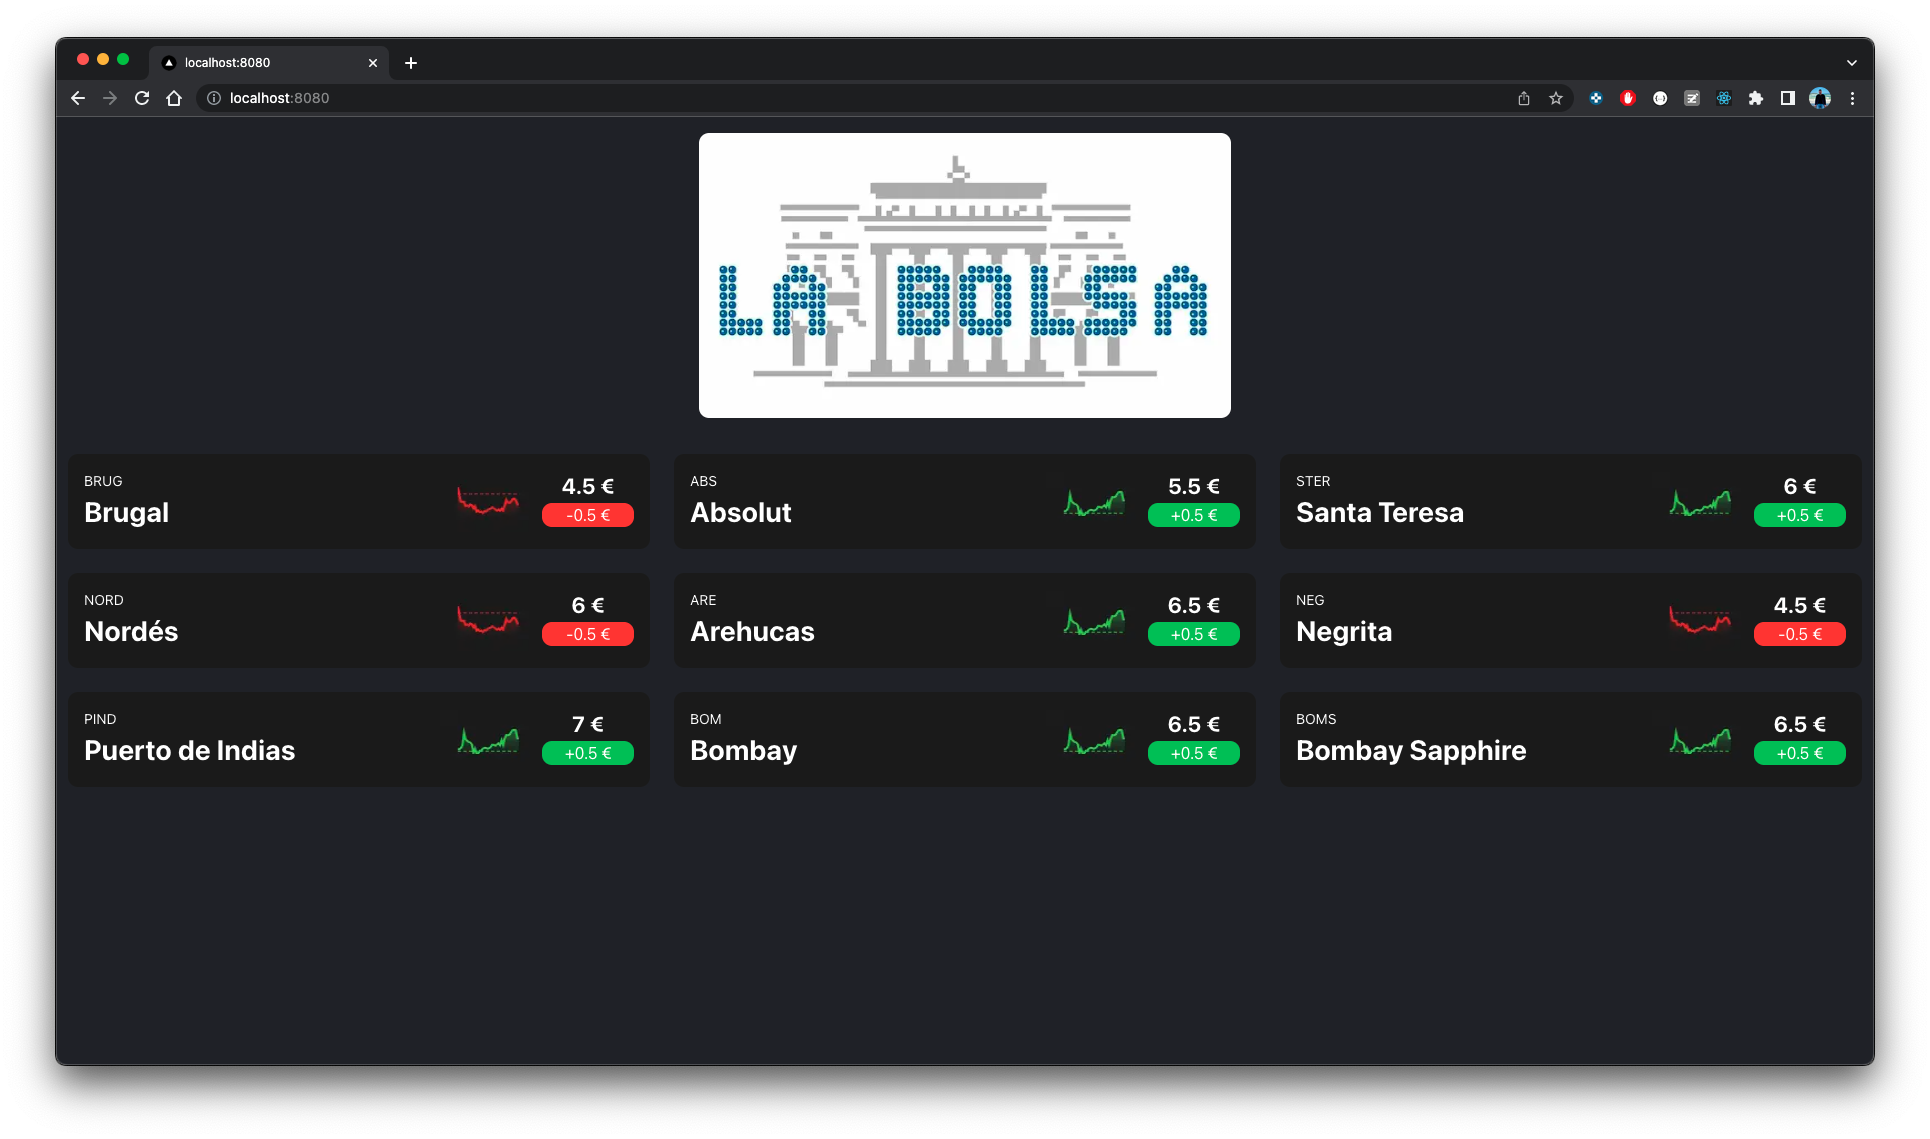
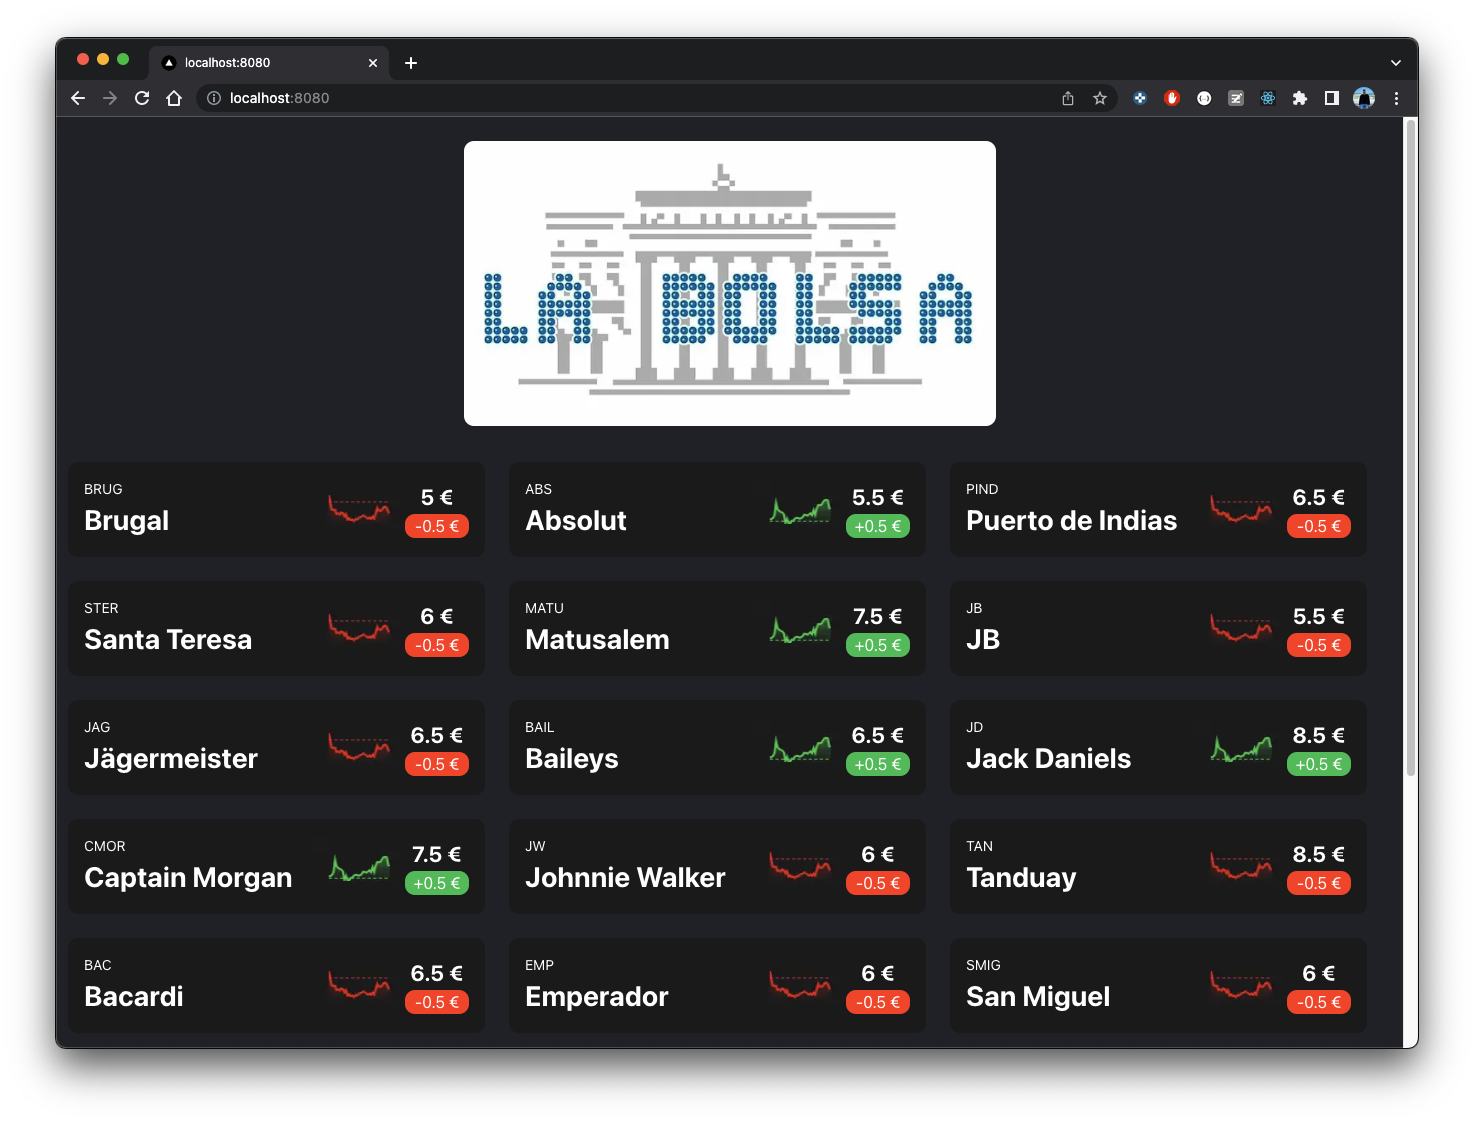
Update readme and documentation

diff --git a/README.md b/README.md
@@ -17,12 +17,12 @@ The App uses SQLite3 to store and fetch the drink prices from a database. The up
 
 La Bolsa App is built with a responsive layout using bootstrap.
 
-![XXL desktop layout](doc/3-columns.png)
+![XXL desktop layout](doc/4-columns.png)
 <p align = "center">
 XXL desktop layout
 </p>
 
-![MD desktop layout](doc/2-columns.png)
+![MD desktop layout](doc/3-columns.png)
 <p align = "center">
 MD desktop layout
 </p>
@@ -39,35 +39,52 @@ Mobile layout
 
 ## Admin App Design
 
-![XXL desktop layout](doc/admin-page.png)
+![Admin Page](doc/admin-page.png)
 <p align = "center">
 Admin Page
 </p>
 
-![XXL desktop layout](doc/add-drink.png)
+![Drink list](doc/drink-list.png)
+<p align = "center">
+Drink list
+</p>
+
+![Add drink modal](doc/add-drink.png)
 <p align = "center">
 Add drink modal
 </p>
 
-![XXL desktop layout](doc/edit-drink.png)
+![Edit drink modal](doc/edit-drink.png)
 <p align = "center">
 Edit drink modal
 </p>
 
-![XXL desktop layout](doc/delete-drink.png)
+![Delete drink modal](doc/delete-drink.png)
 <p align = "center">
 Delete drink modal
 </p>
 
-## Download the dependencies and run the development server
+![Admin config](doc/admin-config.png)
+<p align = "center">
+Admin config page
+</p>
+
+![Update admin password](doc/admin-user.png)
+<p align = "center">
+Update admin password
+</p>
+
+
+## Download the dependencies, create the database and run the development server
 ```bash
 npm install
+npm run create-db
 npm run dev
 ```
 
-The server will be started in the port 3000. This will be the URL: http://localhost:3000
+The server will be started in the port 8080. This will be the URL: http://localhost:8080
 
-The admin server page will be hosted on http://localhost:3000/admin
+The admin server page will be hosted on http://localhost:8080/admin
 
 ## Run tests
 There are some test that could be run using the following command:
@@ -81,10 +98,4 @@ npm run build
 npm run start
 ```
 
-The server will be started in the port 8080. These are the URLs:
-
-http://localhost:8080
-
-
-http://localhost:8080/admin
-
+The server will be started in the port 8080. The URLs are the same as in development mode.
